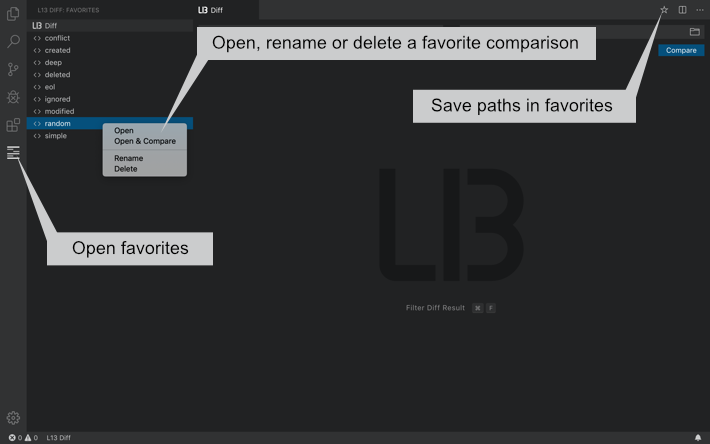
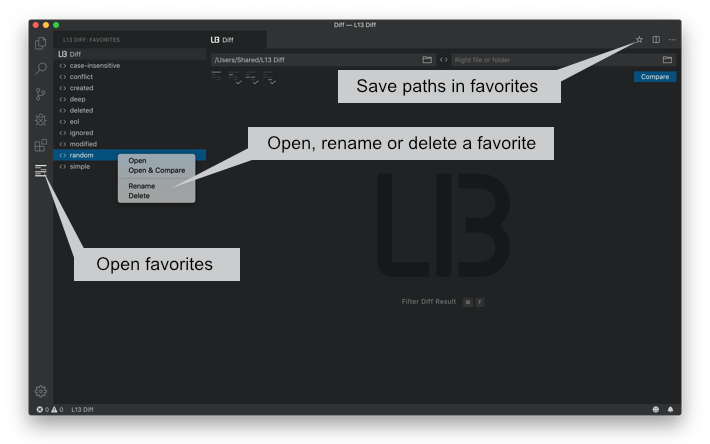
- changed images back to previous style

diff --git a/README.md b/README.md
@@ -46,7 +46,7 @@ Compare two folders in Visual Studio Code.
 
 ![L13 Diff Selection](images/preview-select.png)
 
-### Stats
+### Logging and stats
 
 ![L13 Diff Stats](images/preview-stats.png)
 
